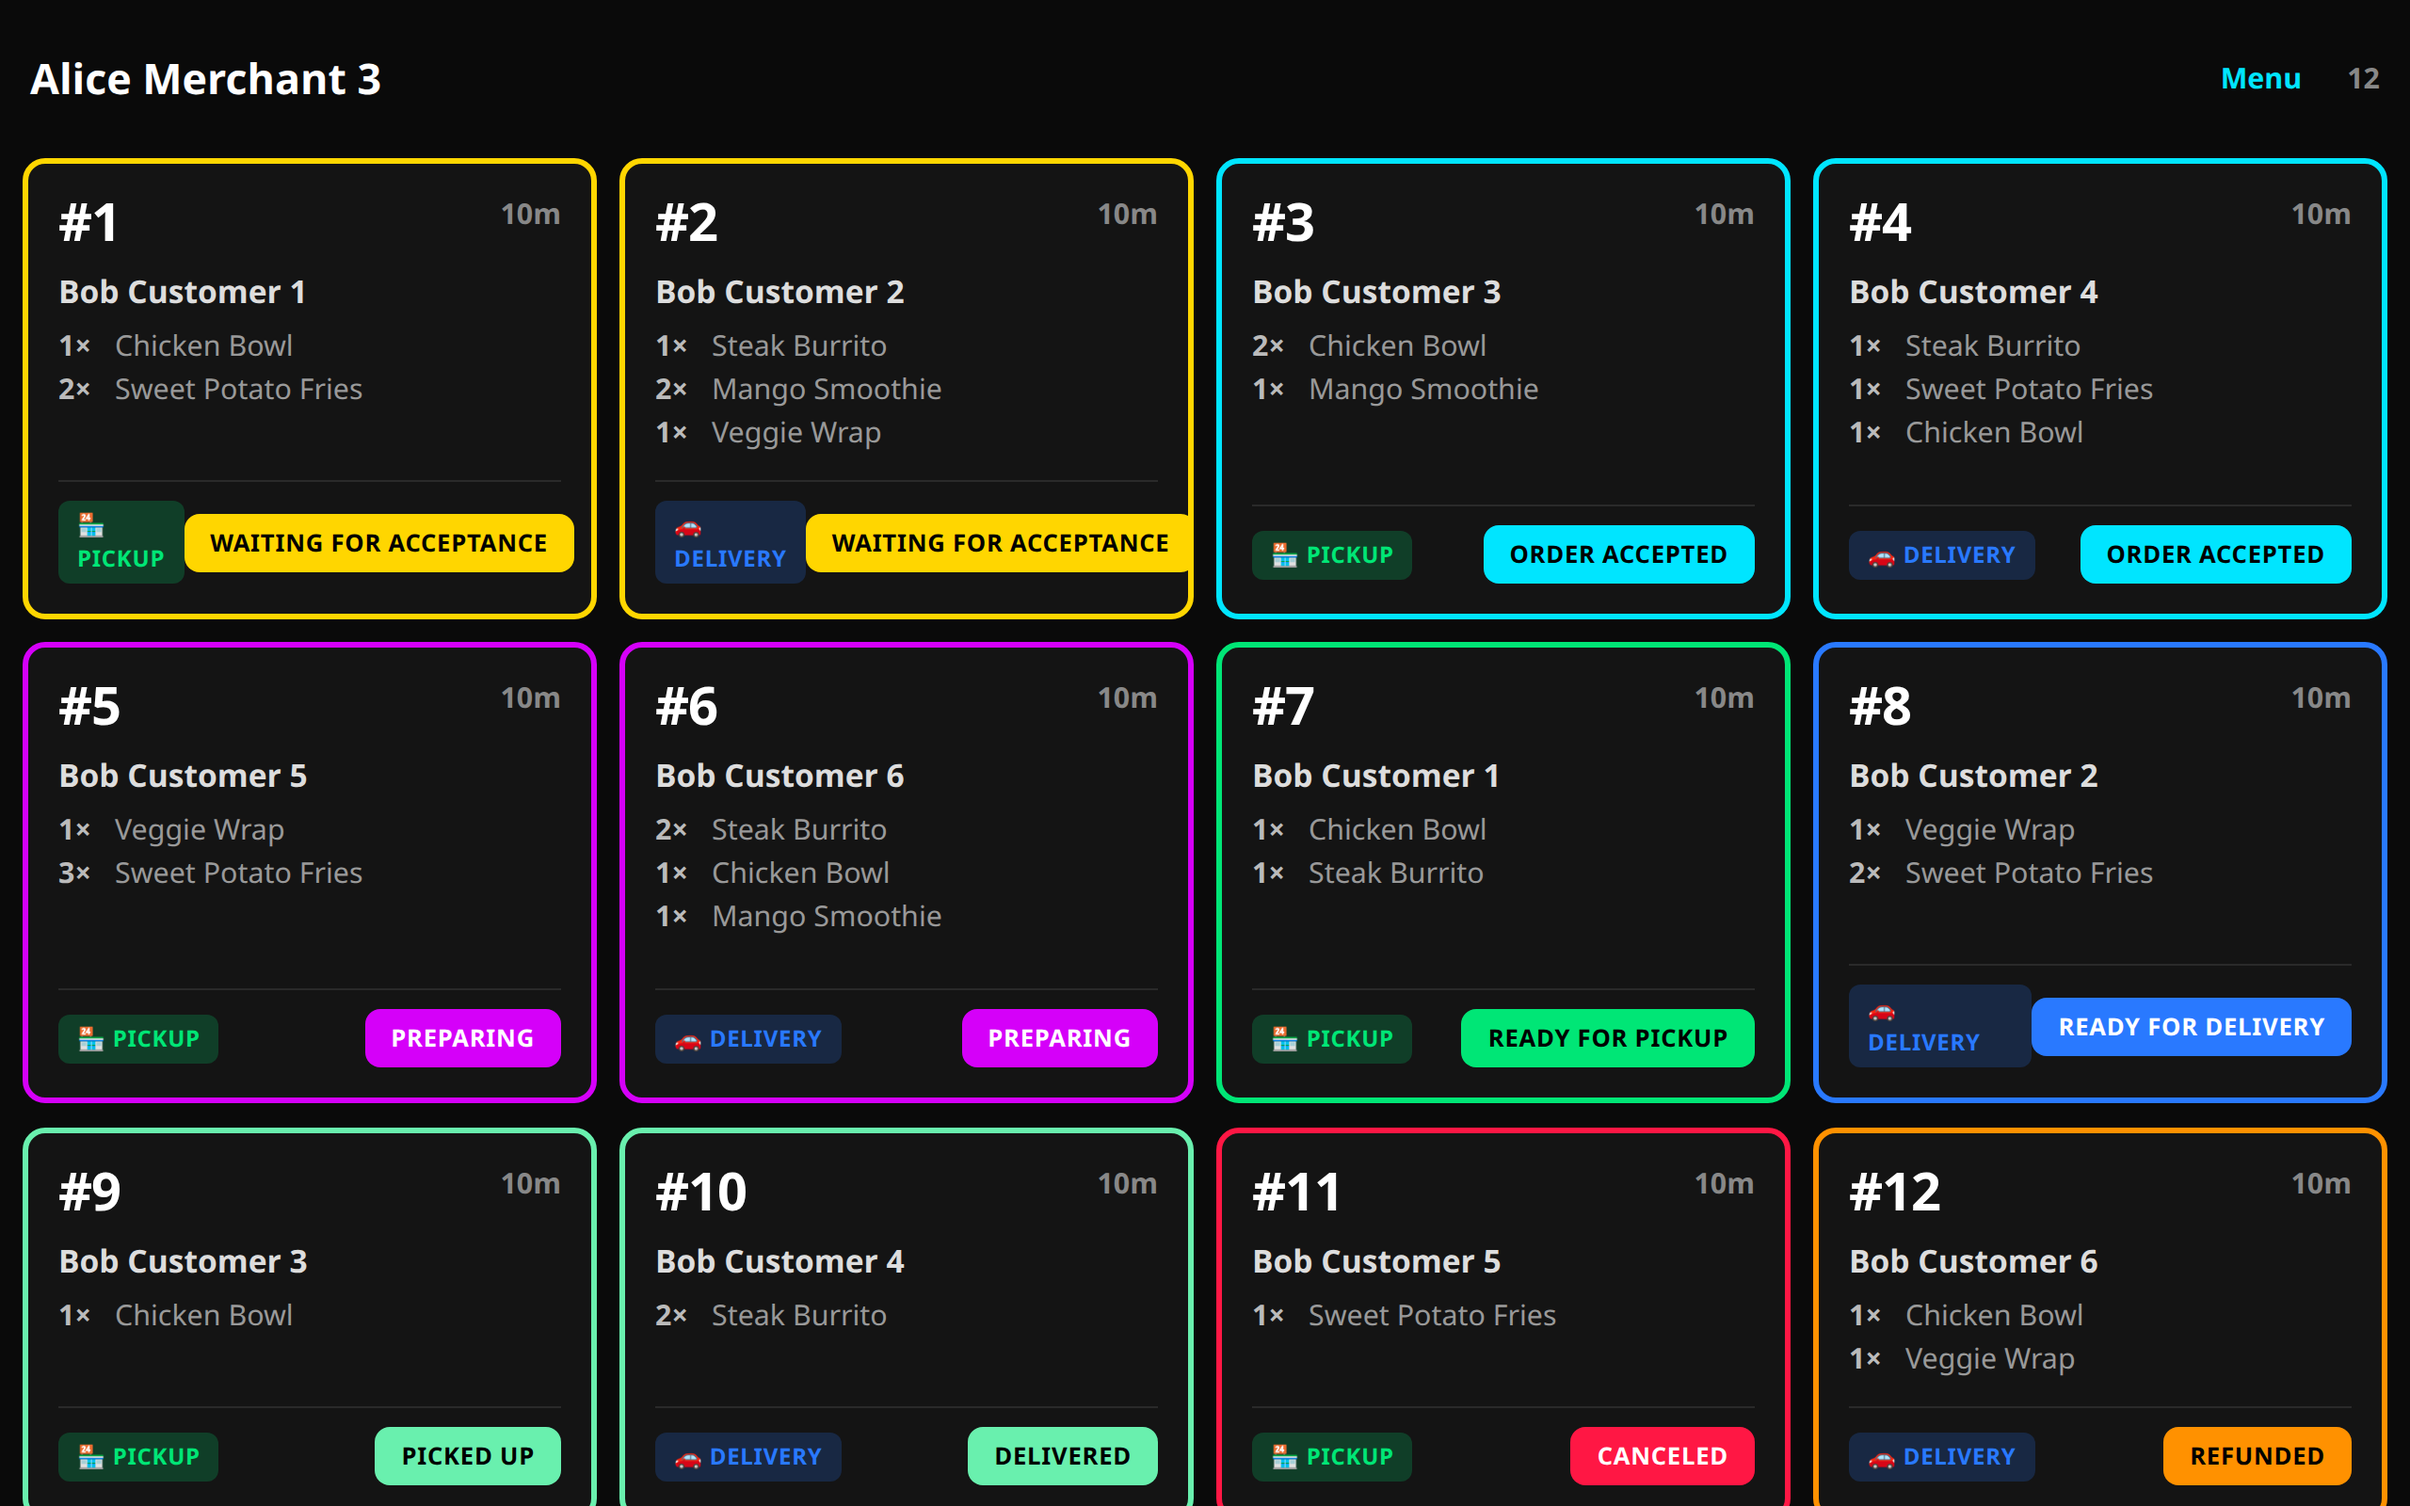
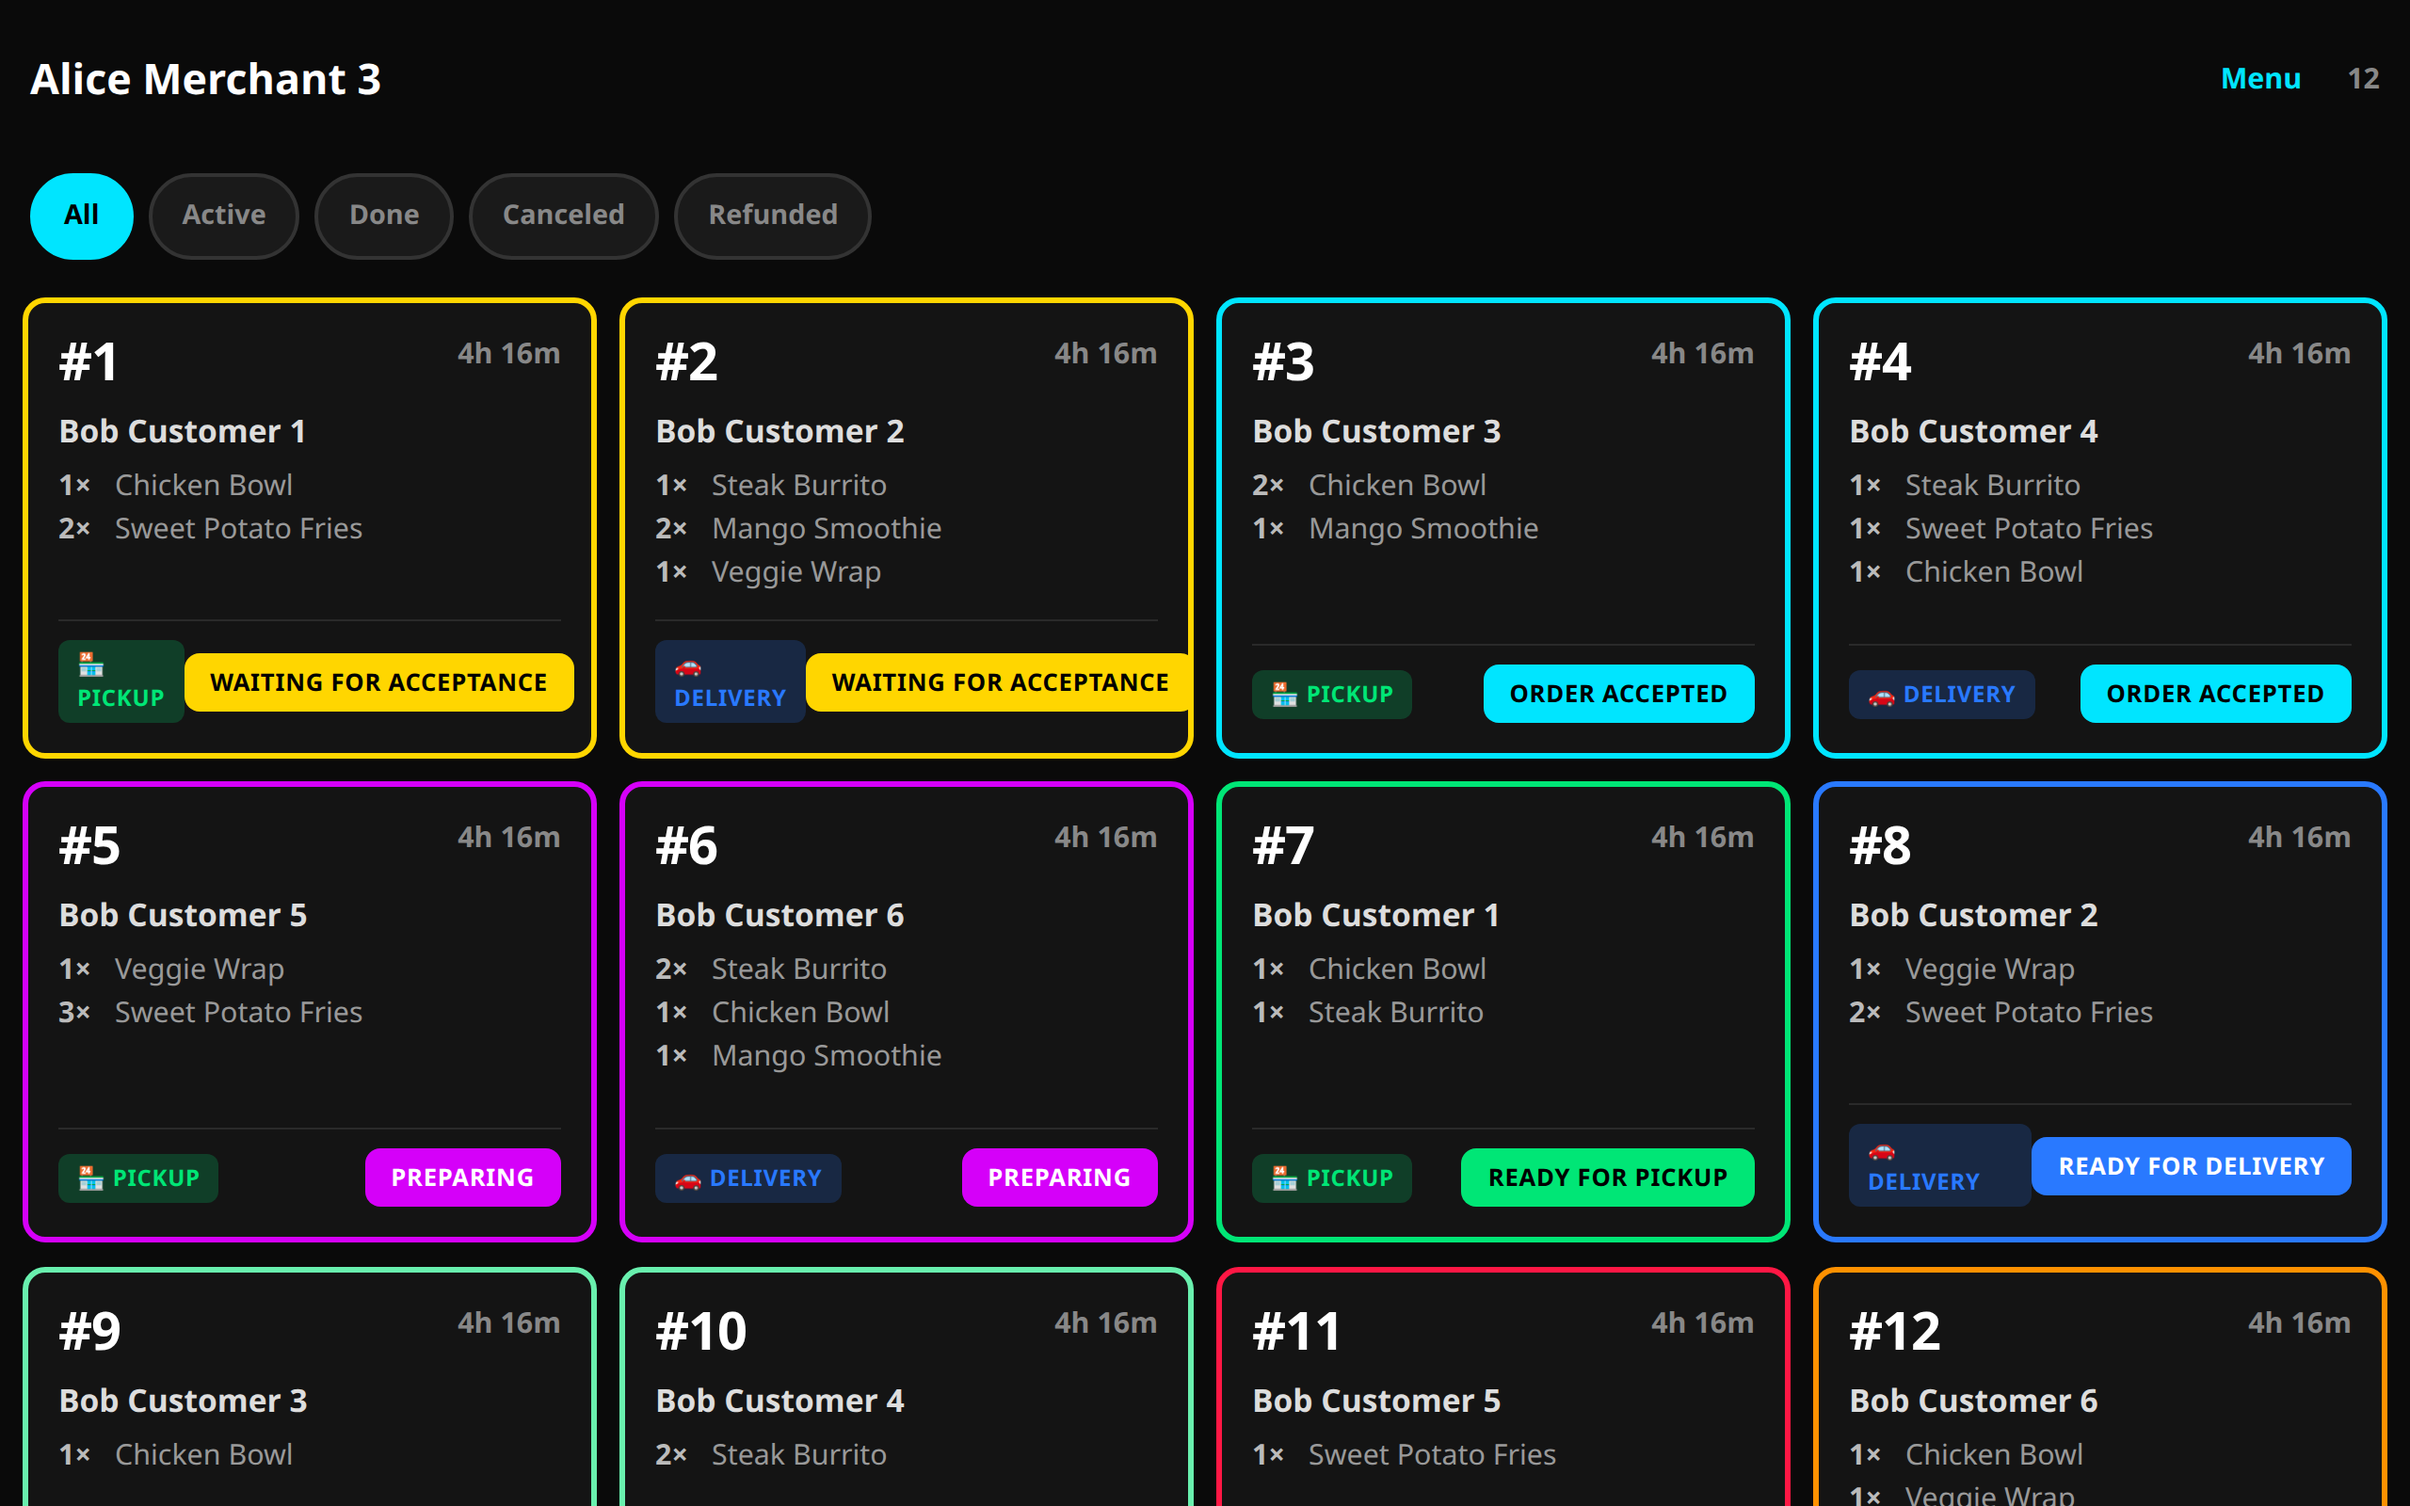
feat: add status filter pills to order list
- Add All, Active, Done, Canceled, Refunded filter pills
- Filter orders client-side with useMemo
- Update order count to reflect filtered results
- Add pill styles with horizontal scroll on mobile
- Update merchant screenshots

diff --git a/src/client/js/pages/MerchantRoutes.tsx b/src/client/js/pages/MerchantRoutes.tsx
@@ -1,5 +1,5 @@
-import React, { useEffect, useState, useCallback } from 'react';
-import { Status, STATUS_LABELS, getNextStatus, canCancel, canRefund } from '../../../shared/orders';
+import React, { useEffect, useState, useCallback, useMemo } from 'react';
+import { Status, STATUS_LABELS, getNextStatus, canCancel, canRefund, ACTIVE_ORDER_STATUSES, COMPLETED_ORDER_STATUSES } from '../../../shared/orders';
 import type { OrderStatus, OrderType } from '../../../shared/orders';
 import '../../css/pages/MerchantRoutes.css';
 
@@ -81,8 +81,11 @@ export default function MerchantRoutes(props: any) {
 
 // ─── Orders List (Grid) ───
 
+type StatusFilter = 'all' | 'active' | 'completed' | 'canceled' | 'refunded' | OrderStatus;
+
 function OrdersListPage({ merchantId, merchantName, merchantUuid, onSelectOrder }: { merchantId: number; merchantName: string; merchantUuid: string; onSelectOrder: (id: number) => void }) {
   const [orders, setOrders] = useState<any>(null);
+  const [statusFilter, setStatusFilter] = useState<StatusFilter>('all');
 
   useEffect(() => {
     fetchApi(`/api/merchants/${merchantId}/orders`).then(setOrders);
@@ -90,20 +93,50 @@ function OrdersListPage({ merchantId, merchantName, merchantUuid, onSelectOrder 
 
   const orderList = orders ? Object.values(orders) as any[] : [];
 
+  const filteredOrders = useMemo(() => {
+    if (statusFilter === 'all') return orderList;
+    if (statusFilter === 'active') return orderList.filter((o: any) => ACTIVE_ORDER_STATUSES.includes(o.status));
+    if (statusFilter === 'completed') return orderList.filter((o: any) => [Status.PICKUP_SUCCESS, Status.DELIVERED].includes(o.status));
+    if (statusFilter === 'canceled') return orderList.filter((o: any) => o.status === Status.CANCELED);
+    if (statusFilter === 'refunded') return orderList.filter((o: any) => o.status === Status.REFUNDED);
+    return orderList.filter((o: any) => o.status === statusFilter);
+  }, [orderList, statusFilter]);
+
+  const filterPills: { key: StatusFilter; label: string }[] = [
+    { key: 'all', label: 'All' },
+    { key: 'active', label: 'Active' },
+    { key: 'completed', label: 'Done' },
+    { key: 'canceled', label: 'Canceled' },
+    { key: 'refunded', label: 'Refunded' },
+  ];
+
   return (
     <div className="OrdersGrid OrdersGrid--with-header">
       <div className="OrdersGrid__header">
         <h1 className="OrdersGrid__title">{merchantName}</h1>
         <div className="OrdersGrid__nav">
           <a href={`/merchant/${merchantUuid}/menuitems`}>Menu</a>
-          <span className="OrdersGrid__count">{orderList.length}</span>
+          <span className="OrdersGrid__count">{filteredOrders.length}</span>
         </div>
       </div>
+      <div className="OrdersGrid__filters">
+        {filterPills.map(({ key, label }) => (
+          <button
+            key={key}
+            className={`OrdersGrid__pill ${statusFilter === key ? 'OrdersGrid__pill--active' : ''}`}
+            onClick={() => setStatusFilter(key)}
+          >
+            {label}
+          </button>
+        ))}
+      </div>
       <div className="OrdersGrid__cards">
-        {orderList.length === 0 && orders !== null ? (
-          <div className="OrdersGrid__empty">No orders yet</div>
+        {filteredOrders.length === 0 && orders !== null ? (
+          <div className="OrdersGrid__empty">
+            {orderList.length === 0 ? 'No orders yet' : 'No orders match this filter'}
+          </div>
         ) : (
-          orderList.slice(0, 12).map((order: any) => (
+          filteredOrders.slice(0, 12).map((order: any) => (
             <OrderCard
               key={order.orderId}
               order={order}

diff --git a/src/client/css/pages/MerchantRoutes.css b/src/client/css/pages/MerchantRoutes.css
@@ -63,6 +63,49 @@
   align-items: center;
 }
 
+/* ===== Status Filter Pills ===== */
+
+.OrdersGrid__filters {
+  display: flex;
+  flex-wrap: wrap;
+  gap: 8px;
+  padding: 8px 4px;
+  overflow-x: auto;
+  -webkit-overflow-scrolling: touch;
+  flex-shrink: 0;
+}
+
+.OrdersGrid__pill {
+  background: #1a1a1a;
+  border: 2px solid #333;
+  color: #888;
+  padding: 10px 16px;
+  border-radius: 24px;
+  font-size: 0.9rem;
+  font-weight: 700;
+  cursor: pointer;
+  white-space: nowrap;
+  -webkit-tap-highlight-color: transparent;
+  touch-action: manipulation;
+  flex-shrink: 0;
+}
+
+.OrdersGrid__pill:hover {
+  color: #bbb;
+  border-color: #444;
+}
+
+.OrdersGrid__pill--active {
+  background: #00E5FF;
+  border-color: #00E5FF;
+  color: #000;
+}
+
+.OrdersGrid__pill--active:hover {
+  background: #00b8d4;
+  border-color: #00b8d4;
+}
+
 .OrdersGrid__cards {
   display: grid;
   grid-template-columns: 1fr;
